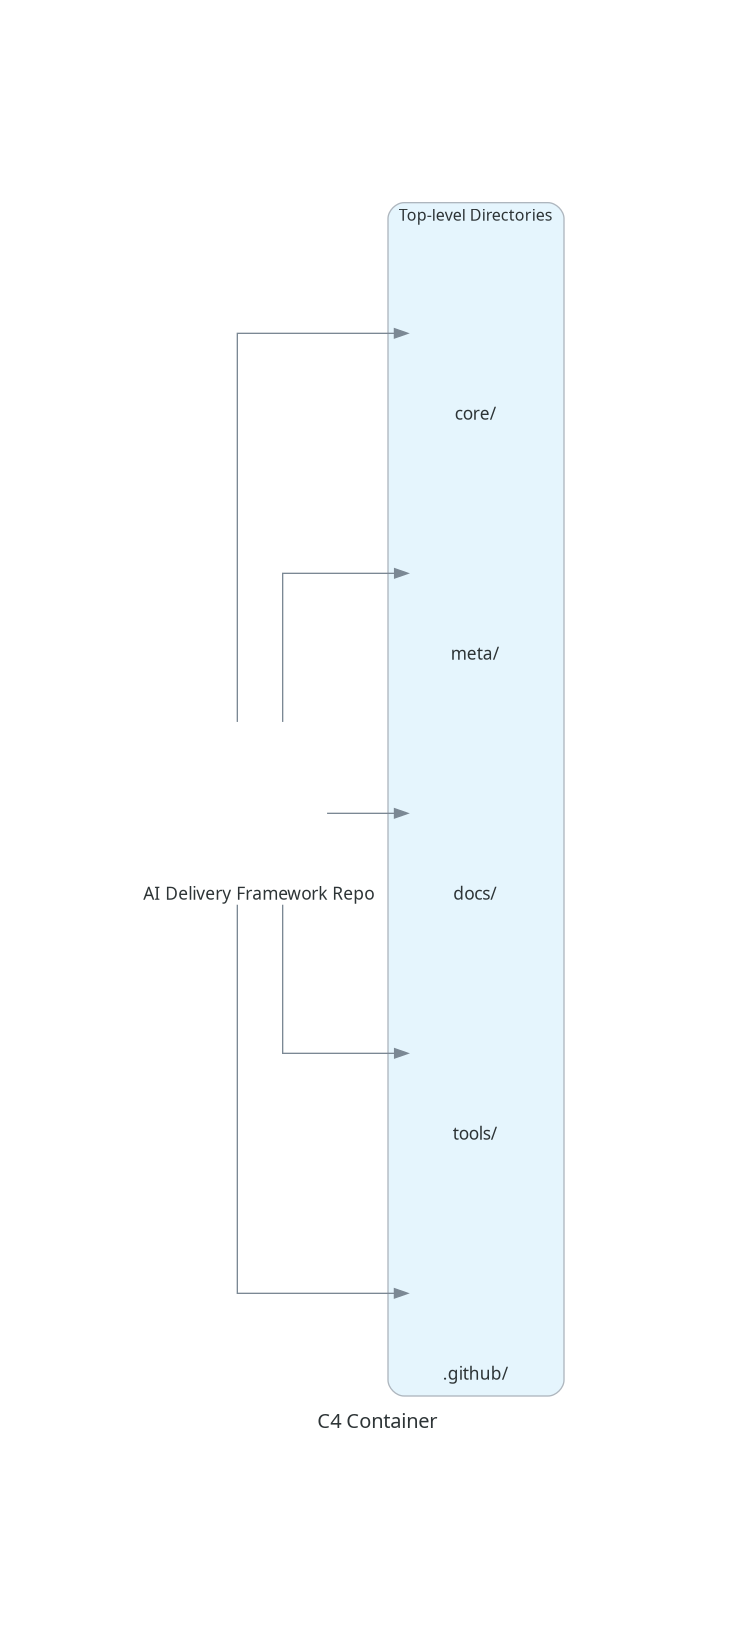
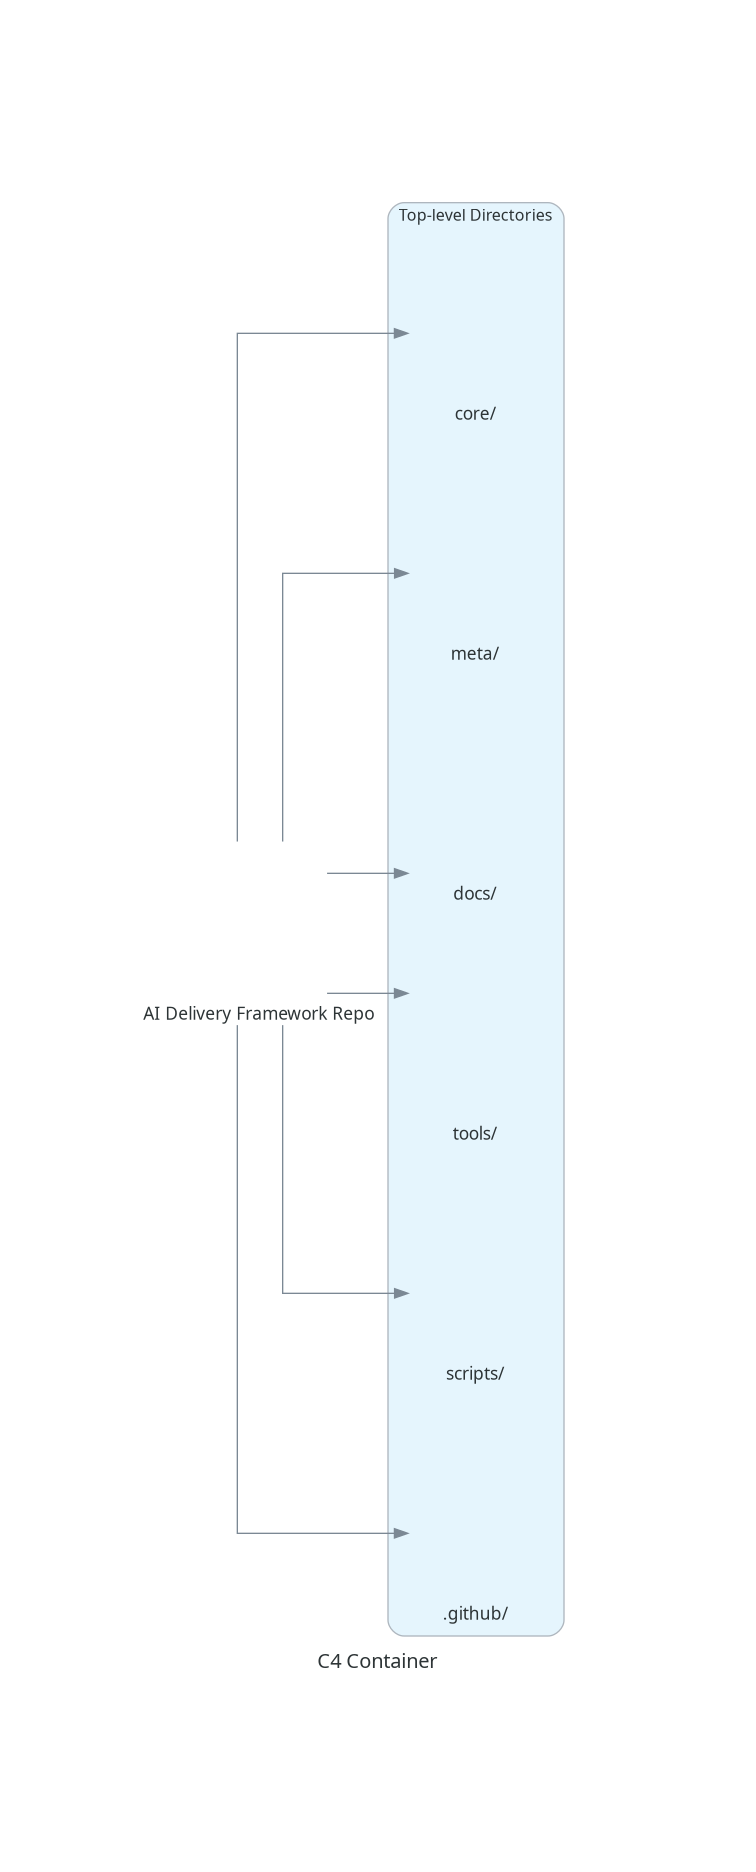
Update codebase guide and regenerate C4 diagrams

diff --git a/docs/architecture/generate_c4_diagrams.py b/docs/architecture/generate_c4_diagrams.py
@@ -17,8 +17,9 @@ def container_diagram():
             meta = Blank("meta/")
             docs = Blank("docs/")
             tools = Blank("tools/")
+            scripts = Blank("scripts/")
             github = Blank(".github/")
-        repo >> [core, meta, docs, tools, github]
+        repo >> [core, meta, docs, tools, scripts, github]
 
 
 def component_diagram():
@@ -44,11 +45,13 @@ def component_diagram():
         with Cluster("Tools & Meta"):
             tools_dir = Blank("tools/")
             meta_dir = Blank("meta/")
+            scripts_dir = Blank("scripts/")
         
         codebase_guide >> [intro, theory, tiers]
         scope_template >> [tier0, tier1, tier2, tier3, tier4, tier5]
         [tier0, tier1, tier2, tier3, tier4, tier5] >> tools_dir
         meta_dir >> codebase_guide
+        scripts_dir >> codebase_guide
 
 
 def main():

diff --git a/core/codebase_guide.md b/core/codebase_guide.md
@@ -12,6 +12,7 @@ This guide provides an authoritative description of the current codebase state.
 | `meta/` | Framework design documentation and templates |
 | `docs/` | User-facing documentation and architecture diagrams |
 | `tools/` | Tool recommendations and tooling landscape information |
+| `scripts/` | Utility scripts for repository maintenance |
 | `.github/` | CI/CD workflows and repository configuration |
 
 ## 2. Key Modules & Components
@@ -24,9 +25,13 @@ This guide provides an authoritative description of the current codebase state.
 | `docs/introduction.md` | Framework onboarding documentation |
 | `docs/theory_of_operation.md` | Conceptual foundation explanation |
 | `docs/delivery_tiers.md` | Progressive rigor model details |
+| `docs/architecture/generate_c4_diagrams.py` | Script to generate architecture diagrams |
 | `meta/governance_core.md` | Framework governance principles |
+| `meta/full_workflow.md` | Detailed workflow documentation |
+| `meta/model_strategy.md` | Strategy for model interaction and usage |
 | `tools/recommended_tool_criteria.md` | Criteria for tool selection |
 | `tools/current_tooling_landscape.md` | Overview of available AI tools |
+| `scripts/consolidate_codebase.py` | Script to consolidate codebase into a single text file |
 
 ## 3. Data Flow
 
@@ -41,6 +46,7 @@ Contributor → Selects Delivery Tier → Uses Context Wrapper with AI →
 2. Select appropriate delivery tier from `core/context_wrappers/`
 3. Use corresponding context wrapper with AI tools
 4. Update codebase guide after significant changes
+5. Generate consolidated codebase view with `scripts/consolidate_codebase.py`
 
 ## 5. Known Quirks / Tech Debt
 
